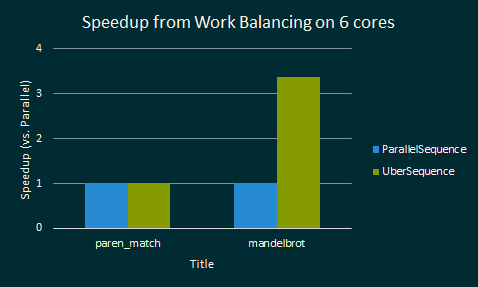
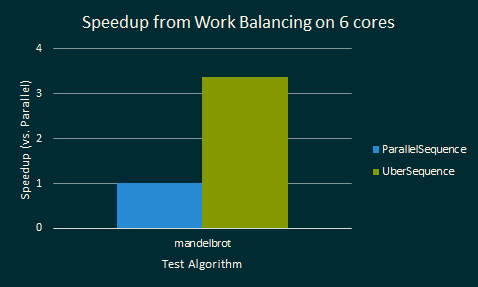
Update graphs to remove paren_match

Changed region(s): [[0.1757, 0.2509, 0.6736, 0.8084], [0.1757, 0.8362, 0.6444, 0.8641], [0.3222, 0.892, 0.5272, 0.9477]]

diff --git a/index.md b/index.md
@@ -44,7 +44,7 @@ libraries:
 bool paren_match(Sequence<int> &seq) {
   seq.scan(Lambda::plus, 0);
   return seq.get(seq.length() - 1) == 0 &&
-         seq.reduce(Lambda:min_elem, INT_MAX) >= 0;
+         seq.reduce(Lambda::min_elem, INT_MAX) >= 0;
 }
 ```
 
@@ -103,18 +103,13 @@ the following chart:
 
 This chart shows a bunch of stuff. Let's break it down:
 
-- `paren_match` and `mandelbrot` are test cases.
-  - The former involves checking a parenthesis sequence for well-matchedness.
-  - The latter computes the [Mandelbrot Set][mandelbrot-wiki] over a defined
-    space in the complex plane.
+- `mandelbrot` is a test case that computes elements of the [Mandelbrot
+   Set][mandelbrot-wiki]
 - `SerialSequence`, `ParallelSequence`, and `UberSequence` are all
   implementations of the abstract `Sequence` interface, which just declares
   operations like `map`, `scan`, `reduce`, etc.
 - `ParallelSequence` and `UberSequence` are parallelized versions of this
   abstraction.
-- `UberSequence` and `ParallelSequence` get the same performance on
-  the `paren_match` test. This is because we haven't entirely finished
-  `UberSequence`'s implementation yet.
 - `UberSequence` gets a near perfect speedup on the `mandelbrot` test, doing
   much better than `ParallelSequence`, even though both are parallel algorithms.
 
@@ -143,7 +138,8 @@ version's performance in this cluster.
 Even as we increase the number of execution contexts, we still manage to get
 near-optimal speedups!
 
-Here's the same analysis for `paren_match`:
+Here's the same analysis for `paren_match`, an algorithm that computes whether
+a sequence of parentheses is well-matched:
 
 [![][latedays-speedup-paren]][latedays-speedup-paren]
 
